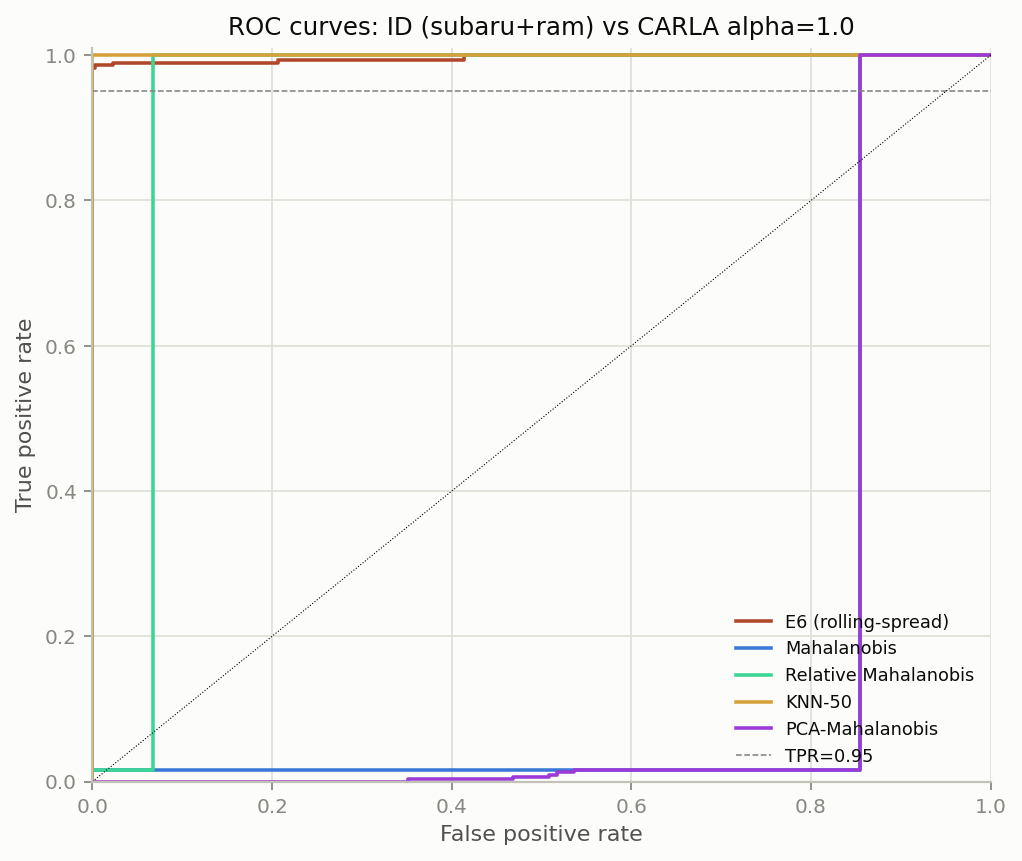
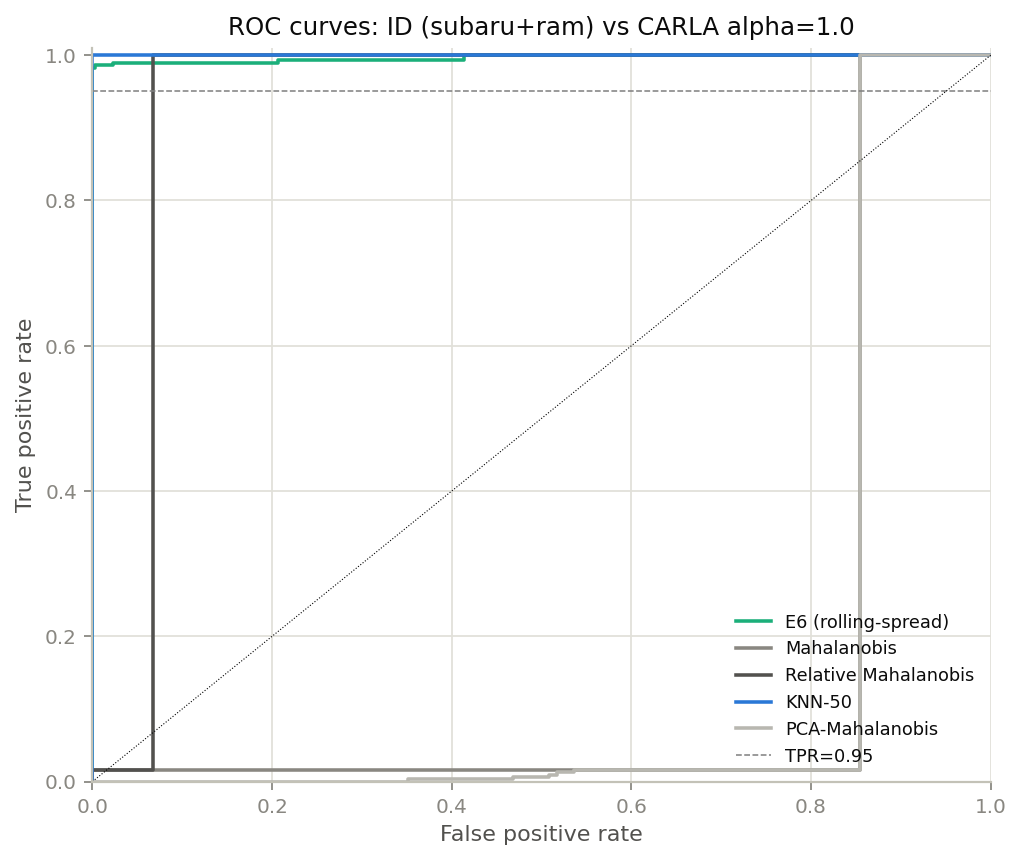
Recolor figures to physx blue/green on white
Swap the editorial theme to pure white backgrounds with a blue/green plus
neutral-gray categorical palette, matching the physx-newton-bench README.
Regenerated all figures from committed caches. e5_layer_localization is
unchanged (needs a GPU collect that is not on disk).

Changed region(s): [[0.091, 0.0604, 0.9706, 0.9059], [0.728, 0.6945, 0.7583, 0.8455]]

diff --git a/src/real_weather.py b/src/real_weather.py
@@ -247,8 +247,8 @@ def _make_figure(results: dict[str, dict], baseline: dict, carla: dict) -> None:
     import physx_style as _physx_style  # editorial-print theme
     _physx_style.apply()
     plt.rcParams.update({
-        "figure.facecolor": "#fcfcfb", "axes.facecolor": "#fcfcfb",
-        "savefig.facecolor": "#fcfcfb", "text.color": "#0b0b0b",
+        "figure.facecolor": "#ffffff", "axes.facecolor": "#ffffff",
+        "savefig.facecolor": "#ffffff", "text.color": "#0b0b0b",
         "axes.labelcolor": "#0b0b0b", "xtick.color": "#898781",
         "ytick.color": "#898781", "axes.edgecolor": "#c3c2b7",
         "font.size": 10, "axes.titlesize": 11, "axes.grid": True,
@@ -281,14 +281,14 @@ def _make_figure(results: dict[str, dict], baseline: dict, carla: dict) -> None:
     labels.append("CARLA (OOD ref)")
     ratios.append(carla_overall)
 
-    colors = ["#898781" if r > COLLAPSE else "#ff7043" for r in ratios]
-    colors[-1] = "#ff7043"  # CARLA always red
+    colors = ["#898781" if r > COLLAPSE else "#898781" for r in ratios]
+    colors[-1] = "#898781"  # CARLA always red
     ax.barh(labels, ratios, color=colors)
-    ax.axvline(COLLAPSE, color="#ffd54f", ls="--", lw=1.2, label=f"collapse (<{COLLAPSE})")
+    ax.axvline(COLLAPSE, color="#c3c2b7", ls="--", lw=1.2, label=f"collapse (<{COLLAPSE})")
     ax.axvline(1.0, color="#898781", ls=":", lw=1.0, label="parity with ID baseline")
     ax.set_xlabel("total activity / baseline activity")
     ax.set_title("E1 output activity ratio\n(all heads combined)")
-    ax.legend(fontsize=8, facecolor="#f1efe8", edgecolor="#c3c2b7")
+    ax.legend(fontsize=8, facecolor="#ffffff", edgecolor="#c3c2b7")
 
     # E2: feature spread ratio
     ax = axes[1]
@@ -300,14 +300,14 @@ def _make_figure(results: dict[str, dict], baseline: dict, carla: dict) -> None:
     labels2.append("CARLA (OOD ref)")
     spread_ratios.append(carla_e2["spread_ratio"])
 
-    colors2 = ["#898781" if r > 0.5 else "#ff7043" for r in spread_ratios]
-    colors2[-1] = "#ff7043"
+    colors2 = ["#898781" if r > 0.5 else "#898781" for r in spread_ratios]
+    colors2[-1] = "#898781"
     ax.barh(labels2, spread_ratios, color=colors2)
-    ax.axvline(0.5, color="#ffd54f", ls="--", lw=1.2, label="collapsed spread (<0.5x)")
+    ax.axvline(0.5, color="#c3c2b7", ls="--", lw=1.2, label="collapsed spread (<0.5x)")
     ax.axvline(1.0, color="#898781", ls=":", lw=1.0)
     ax.set_xlabel("feature spread / baseline spread")
     ax.set_title("E2 recurrent feature spread ratio")
-    ax.legend(fontsize=8, facecolor="#f1efe8", edgecolor="#c3c2b7")
+    ax.legend(fontsize=8, facecolor="#ffffff", edgecolor="#c3c2b7")
 
     # E6: fire fraction
     ax = axes[2]
@@ -319,13 +319,13 @@ def _make_figure(results: dict[str, dict], baseline: dict, carla: dict) -> None:
     labels3.append("CARLA (OOD ref)")
     fire_fracs.append(carla_e6["fired_frac"])
 
-    colors3 = ["#ff7043" if f > 0.5 else "#898781" for f in fire_fracs]
-    colors3[-1] = "#ff7043"
+    colors3 = ["#898781" if f > 0.5 else "#898781" for f in fire_fracs]
+    colors3[-1] = "#898781"
     ax.barh(labels3, [100 * f for f in fire_fracs], color=colors3)
-    ax.axvline(50, color="#ffd54f", ls="--", lw=1.2, label="detector fires (>50%)")
+    ax.axvline(50, color="#c3c2b7", ls="--", lw=1.2, label="detector fires (>50%)")
     ax.set_xlabel("% frames below spread threshold")
     ax.set_title(f"E6 rolling-spread monitor\n(thr={E6_THRESHOLD}, w={E6_WINDOW})")
-    ax.legend(fontsize=8, facecolor="#f1efe8", edgecolor="#c3c2b7")
+    ax.legend(fontsize=8, facecolor="#ffffff", edgecolor="#c3c2b7")
 
     fig.suptitle("Real night/glare vs CARLA: does real adverse weather collapse supercombo?",
                  color="#0b0b0b", fontsize=12)

diff --git a/src/e8_demo.py b/src/e8_demo.py
@@ -271,16 +271,16 @@ def run_demo() -> None:
         hspace=0.55, wspace=0.35,
     )
 
-    CRED    = "#b0472b"
+    CRED    = "#1baf7a"
     CBLUE   = "#2a78d6"
     CGREEN  = "#1baf7a"
     CGREY   = "#898781"
     CTEXT   = "#0b0b0b"
     CAXIS   = "#898781"
-    CORANGE = "#d08a2e"
+    CORANGE = "#52514e"
 
     def _style_ax(ax, title):
-        ax.set_facecolor("#1a1a2e")
+        ax.set_facecolor("#52514e")
         ax.tick_params(colors=CAXIS, labelsize=8)
         for spine in ax.spines.values():
             spine.set_edgecolor("#444444")
@@ -304,12 +304,12 @@ def run_demo() -> None:
     ax_a.set_ylabel("OOD score (higher=OOD)", fontsize=8)
     ax_a.set_xlabel("frame", fontsize=8)
     ax_a.legend(fontsize=7, loc="upper right", framealpha=0.3,
-                labelcolor=CTEXT, facecolor="#f1efe8")
+                labelcolor=CTEXT, facecolor="#ffffff")
     ax_a.text(
         0.02, 0.93,
         f"AUROC: E6={auroc_e6_c:.3f}  Maha={auroc_mh_c:.3f}  Hybrid={auroc_hy_c:.3f}",
         transform=ax_a.transAxes, color=CTEXT, fontsize=8.5, va="top", fontweight="bold",
-        bbox=dict(facecolor="#f1efe8", alpha=0.75, boxstyle="round,pad=0.3"),
+        bbox=dict(facecolor="#ffffff", alpha=0.75, boxstyle="round,pad=0.3"),
     )
 
     # Panel B: fog corruption -- global Maha
@@ -326,12 +326,12 @@ def run_demo() -> None:
     ax_b.set_ylabel("OOD score (higher=OOD)", fontsize=8)
     ax_b.set_xlabel("frame", fontsize=8)
     ax_b.legend(fontsize=7, loc="upper right", framealpha=0.3,
-                labelcolor=CTEXT, facecolor="#f1efe8")
+                labelcolor=CTEXT, facecolor="#ffffff")
     ax_b.text(
         0.02, 0.93,
         f"AUROC: E6={auroc_e6_f:.3f}  Maha={auroc_mh_f:.3f}  Hybrid={auroc_hy_f:.3f}",
         transform=ax_b.transAxes, color=CTEXT, fontsize=8.5, va="top", fontweight="bold",
-        bbox=dict(facecolor="#f1efe8", alpha=0.75, boxstyle="round,pad=0.3"),
+        bbox=dict(facecolor="#ffffff", alpha=0.75, boxstyle="round,pad=0.3"),
     )
 
     # Panel C (bottom-left): per-vehicle ID real-driving scores
@@ -347,17 +347,17 @@ def run_demo() -> None:
     ax_c.set_ylim(-0.05, 1.15)
     ax_c.set_ylabel("OOD score (higher=OOD)", fontsize=8)
     ax_c.set_xlabel("frame", fontsize=8)
-    ax_c.legend(fontsize=7, framealpha=0.3, labelcolor=CTEXT, facecolor="#f1efe8")
+    ax_c.legend(fontsize=7, framealpha=0.3, labelcolor=CTEXT, facecolor="#ffffff")
     ax_c.text(
         0.02, 0.93,
         f"FPR: E6={id_e6_fpr:.0%}  Maha={id_maha_fpr:.0%}  Combined={id_comb_fpr:.0%}",
         transform=ax_c.transAxes, color=CTEXT, fontsize=8, va="top",
-        bbox=dict(facecolor="#f1efe8", alpha=0.75, boxstyle="round,pad=0.3"),
+        bbox=dict(facecolor="#ffffff", alpha=0.75, boxstyle="round,pad=0.3"),
     )
 
     # Panel D (bottom-right): AUROC comparison bar chart
     ax_d = fig.add_subplot(gs[2, 1])
-    ax_d.set_facecolor("#1a1a2e")
+    ax_d.set_facecolor("#52514e")
     _style_ax(ax_d, "(d) Global Maha: AUROC comparison\nCollapse vs Corruption")
 
     conditions  = ["Collapse\n(CARLA)", "Corruption\n(fog sev 5)"]
@@ -376,7 +376,7 @@ def run_demo() -> None:
     ax_d.set_ylim(0, 1.25)
     ax_d.axhline(0.5, color=CGREY, lw=0.7, ls="--", alpha=0.6, label="chance")
     ax_d.axhline(1.0, color=CGREY, lw=0.7, ls="--", alpha=0.4)
-    ax_d.legend(fontsize=7, framealpha=0.3, labelcolor=CTEXT, facecolor="#f1efe8")
+    ax_d.legend(fontsize=7, framealpha=0.3, labelcolor=CTEXT, facecolor="#ffffff")
     for xi, yval in zip(x - w, e6_aurocs):
         ax_d.text(xi, yval + 0.03, f"{yval:.2f}", ha="center", fontsize=8,
                   color=CRED, fontweight="bold")

diff --git a/src/teardown.py b/src/teardown.py
@@ -154,9 +154,9 @@ def _plt():
 
 
 # physx-newton-bench editorial palette: blue primary, rust + amber secondaries
-REAL_C, CARLA_C, WARN_C = "#2a78d6", "#b0472b", "#d08a2e"
+REAL_C, CARLA_C, WARN_C = "#2a78d6", "#1baf7a", "#52514e"
 # light chrome for legends/boxes on the cream canvas
-LEGEND_FC, LEGEND_EC, MUTED_C, INK_C = "#f1efe8", "#c3c2b7", "#898781", "#0b0b0b"
+LEGEND_FC, LEGEND_EC, MUTED_C, INK_C = "#ffffff", "#c3c2b7", "#898781", "#0b0b0b"
 
 
 def fig_collapse(rows: list[dict]) -> None:
@@ -171,7 +171,7 @@ def fig_collapse(rows: list[dict]) -> None:
     ax.axvline(1.0, color="#898781", ls=":", lw=1.0, label="parity with real")
     ax.set_xlabel("CARLA output activity / real output activity  (log scale)")
     ax.set_title("E1  supercombo output activity on CARLA vs real footage")
-    ax.legend(loc="lower right", facecolor="#f1efe8", edgecolor="#c3c2b7")
+    ax.legend(loc="lower right", facecolor="#ffffff", edgecolor="#c3c2b7")
     fig.tight_layout()
     fig.savefig(FIG_DIR / "e1_head_collapse.png", dpi=150)
     plt.close(fig)
@@ -193,7 +193,7 @@ def fig_features(e2: dict) -> None:
     ax.set_title("E2  CARLA in the model's own 512-D feature space\n"
                  f"feature spread {e2['spread_ratio']:.4f}x of real   "
                  f"separability {100*e2['separability']:.0f}%   d'={e2['dprime']:.1f}")
-    ax.legend(facecolor="#f1efe8", edgecolor="#c3c2b7")
+    ax.legend(facecolor="#ffffff", edgecolor="#c3c2b7")
     fig.tight_layout()
     fig.savefig(FIG_DIR / "e2_feature_ood.png", dpi=150)
     plt.close(fig)
@@ -219,7 +219,7 @@ def fig_confidence(e3: list[dict]) -> None:
     ax.set_title("E3  outputs collapse ~99%, the model's uncertainty flags none of it\n"
                  "silent failure: confidently blind")
     ax.legend(loc="upper center", bbox_to_anchor=(0.5, -0.11), ncol=1,
-              facecolor="#f1efe8", edgecolor="#c3c2b7")
+              facecolor="#ffffff", edgecolor="#c3c2b7")
     fig.subplots_adjust(bottom=0.24)
     fig.savefig(FIG_DIR / "e3_confidence.png", dpi=150)
     plt.close(fig)

diff --git a/src/e8_hybrid.py b/src/e8_hybrid.py
@@ -1254,10 +1254,10 @@ def _fig_e4_auroc_sweep(e4_results: dict, out_dir: Path) -> None:
     alphas = [r["alpha"] for r in per_alpha]
     fig, ax = plt.subplots(figsize=(8, 5), dpi=140)
     for det, color, ls in [
-        ("hybrid", "#2ca02c", "-"),
-        ("e6", "#b0472b", "--"),
+        ("hybrid", "#1baf7a", "-"),
+        ("e6", "#1baf7a", "--"),
         ("mahalanobis", "#2a78d6", ":"),
-        ("rmd", "#ff7f0e", "-."),
+        ("rmd", "#b8b7b0", "-."),
     ]:
         vals = [r.get(f"{det}_auroc", float("nan")) for r in per_alpha]
         ax.plot(alphas, vals, color=color, ls=ls, lw=2, label=det, marker="o", ms=4)
@@ -1299,10 +1299,10 @@ def _fig_e7_mean_auroc(e7_results: dict, out_dir: Path) -> None:
     width = 0.2
     fig, ax = plt.subplots(figsize=(14, 6), dpi=140)
     for i, (det, color) in enumerate([
-        ("e6", "#b0472b"),
+        ("e6", "#1baf7a"),
         ("mahalanobis", "#2a78d6"),
-        ("rmd", "#ff7f0e"),
-        ("hybrid", "#2ca02c"),
+        ("rmd", "#b8b7b0"),
+        ("hybrid", "#1baf7a"),
     ]):
         means = [
             float(np.mean(per_corruption[c][det])) if per_corruption[c][det]
@@ -1333,7 +1333,7 @@ def _fig_submodule_ratios(submodule_result: dict, out_dir: Path) -> None:
     alphas = submodule_result["alphas"]
     ratios = submodule_result["ratios"]
     fig, ax = plt.subplots(figsize=(9, 5), dpi=140)
-    colors = plt.cm.plasma(np.linspace(0, 0.9, len(ratios)))
+    colors = _physx_style.cmap_cycle(len(ratios))
     for (name, r), c in zip(ratios.items(), colors):
         cliff = submodule_result["cliffs"].get(name, float("nan"))
         label = name if not np.isfinite(cliff) else f"{name} (cliff={cliff:.2f})"

diff --git a/src/teardown_v096.py b/src/teardown_v096.py
@@ -79,7 +79,7 @@ def fig_collapse_v096(rows: list[dict]) -> None:
     ax.axvline(1.0, color="#898781", ls=":", lw=1.0, label="parity with real")
     ax.set_xlabel("CARLA output activity / real output activity  (log scale)")
     ax.set_title("E1 v0.9.6  supercombo output activity on CARLA vs real footage")
-    ax.legend(loc="lower right", facecolor="#f1efe8", edgecolor="#c3c2b7")
+    ax.legend(loc="lower right", facecolor="#ffffff", edgecolor="#c3c2b7")
     fig.tight_layout()
     fig.savefig(FIG_DIR / "e1_head_collapse_v096.png", dpi=150)
     plt.close(fig)
@@ -101,7 +101,7 @@ def fig_features_v096(e2: dict) -> None:
     ax.set_title("E2 v0.9.6  CARLA in the model's own 512-D feature space\n"
                  f"feature spread {e2['spread_ratio']:.4f}x of real   "
                  f"separability {100*e2['separability']:.0f}%   d'={e2['dprime']:.1f}")
-    ax.legend(facecolor="#f1efe8", edgecolor="#c3c2b7")
+    ax.legend(facecolor="#ffffff", edgecolor="#c3c2b7")
     fig.tight_layout()
     fig.savefig(FIG_DIR / "e2_feature_ood_v096.png", dpi=150)
     plt.close(fig)
@@ -126,7 +126,7 @@ def fig_confidence_v096(e3: list[dict]) -> None:
     ax.set_ylabel("percent")
     ax.set_title("E3 v0.9.6  outputs vs uncertainty on CARLA")
     ax.legend(loc="upper center", bbox_to_anchor=(0.5, -0.11), ncol=1,
-              facecolor="#f1efe8", edgecolor="#c3c2b7")
+              facecolor="#ffffff", edgecolor="#c3c2b7")
     fig.subplots_adjust(bottom=0.24)
     fig.savefig(FIG_DIR / "e3_confidence_v096.png", dpi=150)
     plt.close(fig)

diff --git a/src/e8_pca_hybrid.py b/src/e8_pca_hybrid.py
@@ -161,13 +161,13 @@ def _plt():
 
 
 # physx-newton-bench palette: cream paper, ink, blue primary + warm secondaries
-CREAM = "#fcfcfb"
+CREAM = "#ffffff"
 INK = "#0b0b0b"
 RUST = "#2a78d6"     # primary series (physx blue)
 SLATE = "#898781"    # muted warm grey for the secondary/cost series
-GOLD = "#d08a2e"     # muted ochre for threshold/reference lines only
+GOLD = "#52514e"     # muted ochre for threshold/reference lines only
 # legend styling
-_LEG = dict(facecolor="#f1efe8", edgecolor="#c3c2b7")
+_LEG = dict(facecolor="#ffffff", edgecolor="#c3c2b7")
 # back-compat names used below: accent=RUST, secondary=SLATE, reference=GOLD
 REAL_C, CARLA_C, WARN_C = RUST, SLATE, GOLD
 
@@ -238,7 +238,7 @@ def make_figure(out: Path = FIG_OUT) -> Path:
     axC.bar(x - 0.27, e6, 0.27, color=WARN_C, label="E6 (temporal)")
     axC.bar(x, pm, 0.27, color=REAL_C, label=f"PCA-Maha k={K_STAR}")
     axC.bar(x + 0.27, hyb, 0.27, color=CARLA_C, label="hybrid")
-    axC.axhline(0.5, color="#9a9486", ls=":", lw=1, alpha=0.8)
+    axC.axhline(0.5, color="#898781", ls=":", lw=1, alpha=0.8)
     axC.set_xticks(x)
     axC.set_xticklabels(["collapse\n(CARLA)", "corruption\n(fog s5)"])
     axC.set_ylabel("AUROC (subaru)")

diff --git a/src/lead_time.py b/src/lead_time.py
@@ -234,12 +234,12 @@ def plot_lead_time(rows: list[dict], out_path: Path) -> None:
 
     fig, ax = plt.subplots(figsize=(7, 5))
     colors = {
-        "E6 (rolling-spread)": "#b0472b",
+        "E6 (rolling-spread)": "#1baf7a",
         "mahalanobis": "#2a78d6",
-        "relative_mahalanobis": "#ff7f0e",
-        "knn50": "#2ca02c",
-        "conformal": "#9467bd",
-        "pca_mahalanobis": "#8c564b",
+        "relative_mahalanobis": "#b8b7b0",
+        "knn50": "#1baf7a",
+        "conformal": "#898781",
+        "pca_mahalanobis": "#898781",
     }
     labels = {
         "E6 (rolling-spread)": "E6 (rolling-spread)",
@@ -286,7 +286,7 @@ def plot_lead_time(rows: list[dict], out_path: Path) -> None:
     ax.text(-0.05, 0.08, "low AUROC\n& LOCO fail",
             fontsize=7, color="grey", ha="center")
     ax.text(0.3, 0.97, "E6 zone: lead + low LOCO FPR",
-            fontsize=7, color="#b0472b", ha="center", style="italic")
+            fontsize=7, color="#1baf7a", ha="center", style="italic")
     fig.tight_layout()
     out_path.parent.mkdir(parents=True, exist_ok=True)
     fig.savefig(out_path, dpi=150, bbox_inches="tight")

diff --git a/src/e4_ram.py b/src/e4_ram.py
@@ -141,17 +141,17 @@ def fig_interp(alphas, norm, fproj, unc, a90, a10,
         ax1.axvspan(a90, a10, color=WARN_C, alpha=0.15,
                     label=f"RAM transition ({a10 - a90:.3f})")
     if np.isfinite(sub_a90) and np.isfinite(sub_a10):
-        ax1.axvspan(sub_a90, sub_a10, color="#b39ddb", alpha=0.12,
+        ax1.axvspan(sub_a90, sub_a10, color="#b8b7b0", alpha=0.12,
                     label=f"Subaru transition ({sub_a10 - sub_a90:.2f})")
     ax1.set_ylabel("normalized")
     ax1.set_title("E4-RAM  supercombo across the real-to-sim interpolation (RAM source)")
-    ax1.legend(facecolor="#f1efe8", edgecolor="#c3c2b7", fontsize=8)
+    ax1.legend(facecolor="#ffffff", edgecolor="#c3c2b7", fontsize=8)
 
     ax2.plot(xs, [unc[a] for a in xs], "-o", color="#898781", lw=2,
              label="predicted plan uncertainty")
     ax2.set_xlabel("alpha   (0 = real RAM frame,  1 = CARLA frame)")
     ax2.set_ylabel("mean plan_std")
-    ax2.legend(facecolor="#f1efe8", edgecolor="#c3c2b7")
+    ax2.legend(facecolor="#ffffff", edgecolor="#c3c2b7")
 
     fig.tight_layout()
     FIG.parent.mkdir(parents=True, exist_ok=True)

diff --git a/src/e4_interp_v096.py b/src/e4_interp_v096.py
@@ -94,13 +94,13 @@ def fig_interp_v096(alphas, norm, fproj, unc, a90, a10) -> None:
                     label=f"transition (width {a10 - a90:.3f})")
     ax1.set_ylabel("normalized")
     ax1.set_title("E4 v0.9.6  supercombo across the real-to-sim interpolation")
-    ax1.legend(facecolor="#f1efe8", edgecolor="#c3c2b7")
+    ax1.legend(facecolor="#ffffff", edgecolor="#c3c2b7")
 
     ax2.plot(xs, [unc[a] for a in xs], "-o", color="#898781", lw=2,
              label="predicted plan uncertainty")
     ax2.set_xlabel("alpha   (0 = real Subaru frame,  1 = CARLA frame)")
     ax2.set_ylabel("mean plan_std")
-    ax2.legend(facecolor="#f1efe8", edgecolor="#c3c2b7")
+    ax2.legend(facecolor="#ffffff", edgecolor="#c3c2b7")
 
     fig.tight_layout()
     FIG.parent.mkdir(parents=True, exist_ok=True)

diff --git a/src/e4_interp.py b/src/e4_interp.py
@@ -210,13 +210,13 @@ def fig_interp(alphas, norm, fproj, unc, a90, a10) -> None:
                     label=f"transition (width {a10 - a90:.3f})")
     ax1.set_ylabel("normalized")
     ax1.set_title("E4  supercombo across the real-to-sim interpolation")
-    ax1.legend(facecolor="#f1efe8", edgecolor="#c3c2b7")
+    ax1.legend(facecolor="#ffffff", edgecolor="#c3c2b7")
 
     ax2.plot(xs, [unc[a] for a in xs], "-o", color="#898781", lw=2,
              label="predicted plan uncertainty")
     ax2.set_xlabel("alpha   (0 = real Subaru frame,  1 = CARLA frame)")
     ax2.set_ylabel("mean plan_std")
-    ax2.legend(facecolor="#f1efe8", edgecolor="#c3c2b7")
+    ax2.legend(facecolor="#ffffff", edgecolor="#c3c2b7")
 
     fig.tight_layout()
     FIG.parent.mkdir(parents=True, exist_ok=True)

diff --git a/scripts/build_metrics.py b/scripts/build_metrics.py
@@ -293,12 +293,13 @@ def _headline(table1: dict, sweep: dict, alphas: np.ndarray,
 # --- figures ------------------------------------------------------------
 
 def _color(name: str) -> str:
+    # physx palette: hero detector green, strongest baseline blue, rest neutral grays.
     return {
-        "e6": "#b0472b",
-        "mahalanobis": "#3a78d6",
-        "relative_mahalanobis": "#3ad693",
-        "knn50": "#d6a13a",
-        "pca_mahalanobis": "#9b3ad6",
+        "e6": "#1baf7a",
+        "knn50": "#2a78d6",
+        "relative_mahalanobis": "#52514e",
+        "mahalanobis": "#898781",
+        "pca_mahalanobis": "#b8b7b0",
     }[name]
 
 

diff --git a/src/e5_layer.py b/src/e5_layer.py
@@ -242,7 +242,7 @@ def _figure(alphas: np.ndarray, ratios: dict[str, np.ndarray], out: Path) -> Non
     if not view:
         view = [(k, k) for k in ratios]
     fig, ax = plt.subplots(figsize=(8, 4.5), dpi=140)
-    colors = plt.cm.viridis(np.linspace(0, 0.9, len(view)))
+    colors = _physx_style.cmap_cycle(len(view))  # physx editorial palette (blue/green/neutral-gray)
     for (key, label), c in zip(view, colors):
         ax.plot(alphas, ratios[key], marker="o", lw=1.6, color=c, label=label)
     ax.set_xlabel("alpha (0 = real, 1 = CARLA)")
